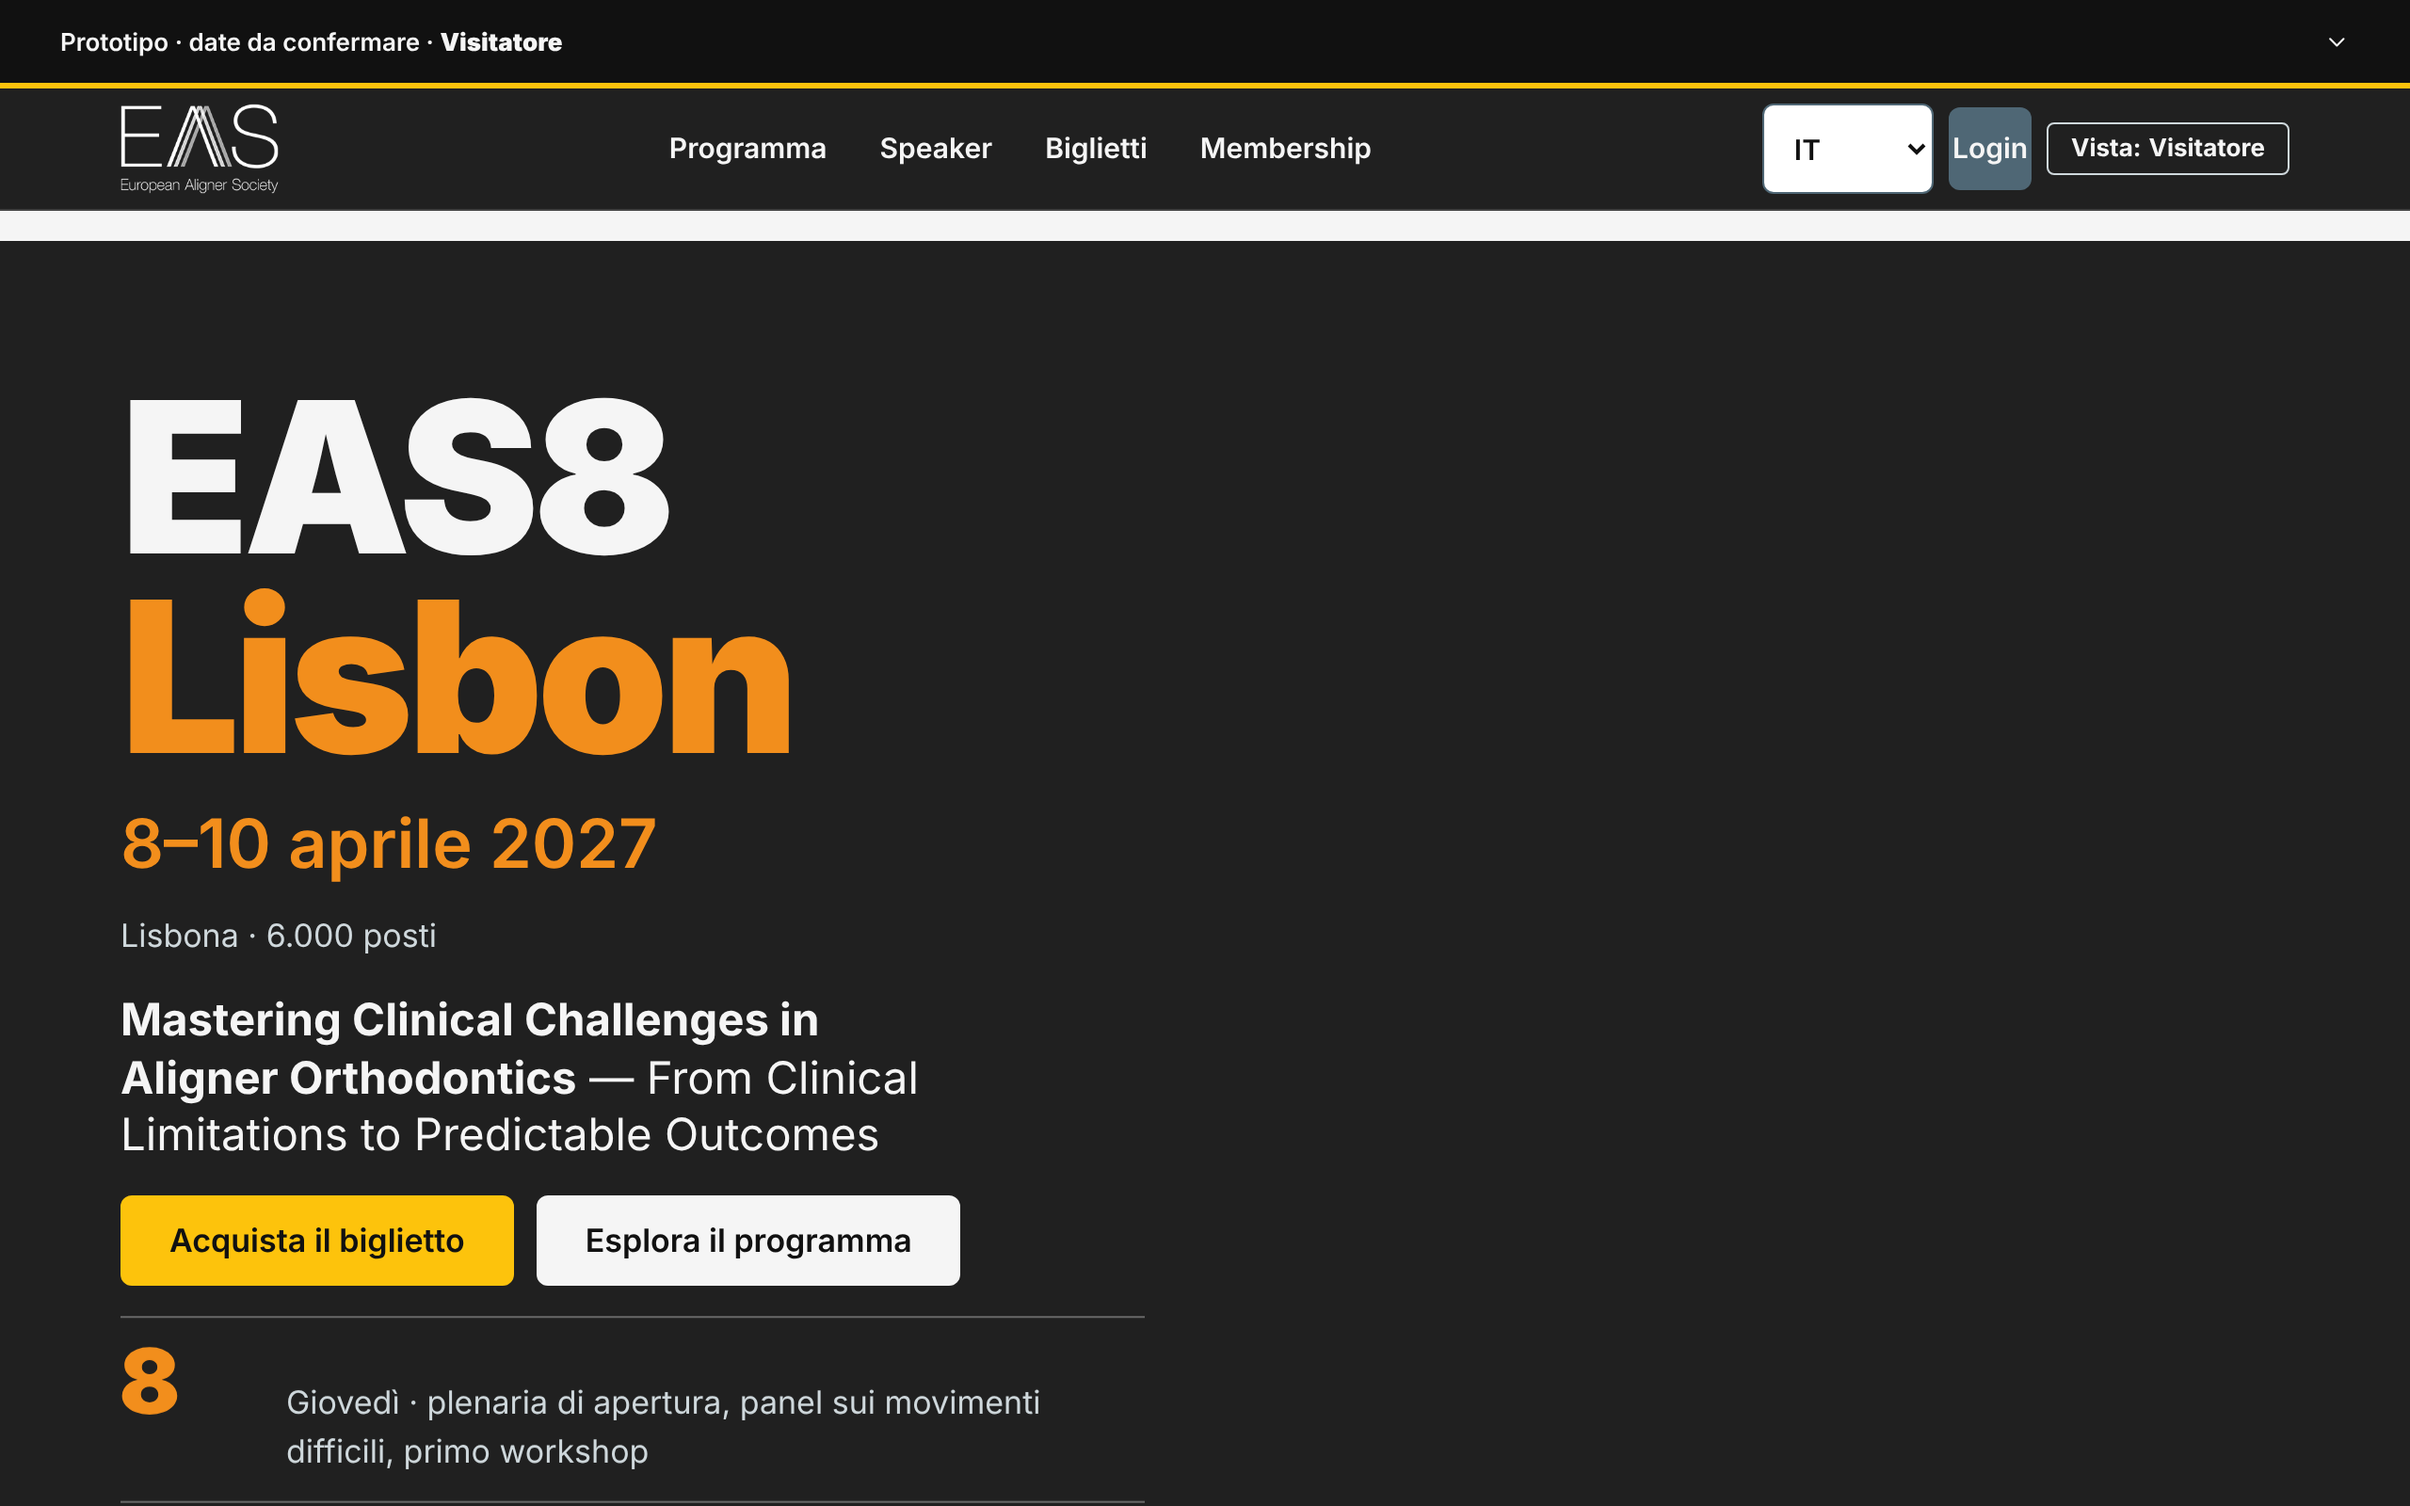
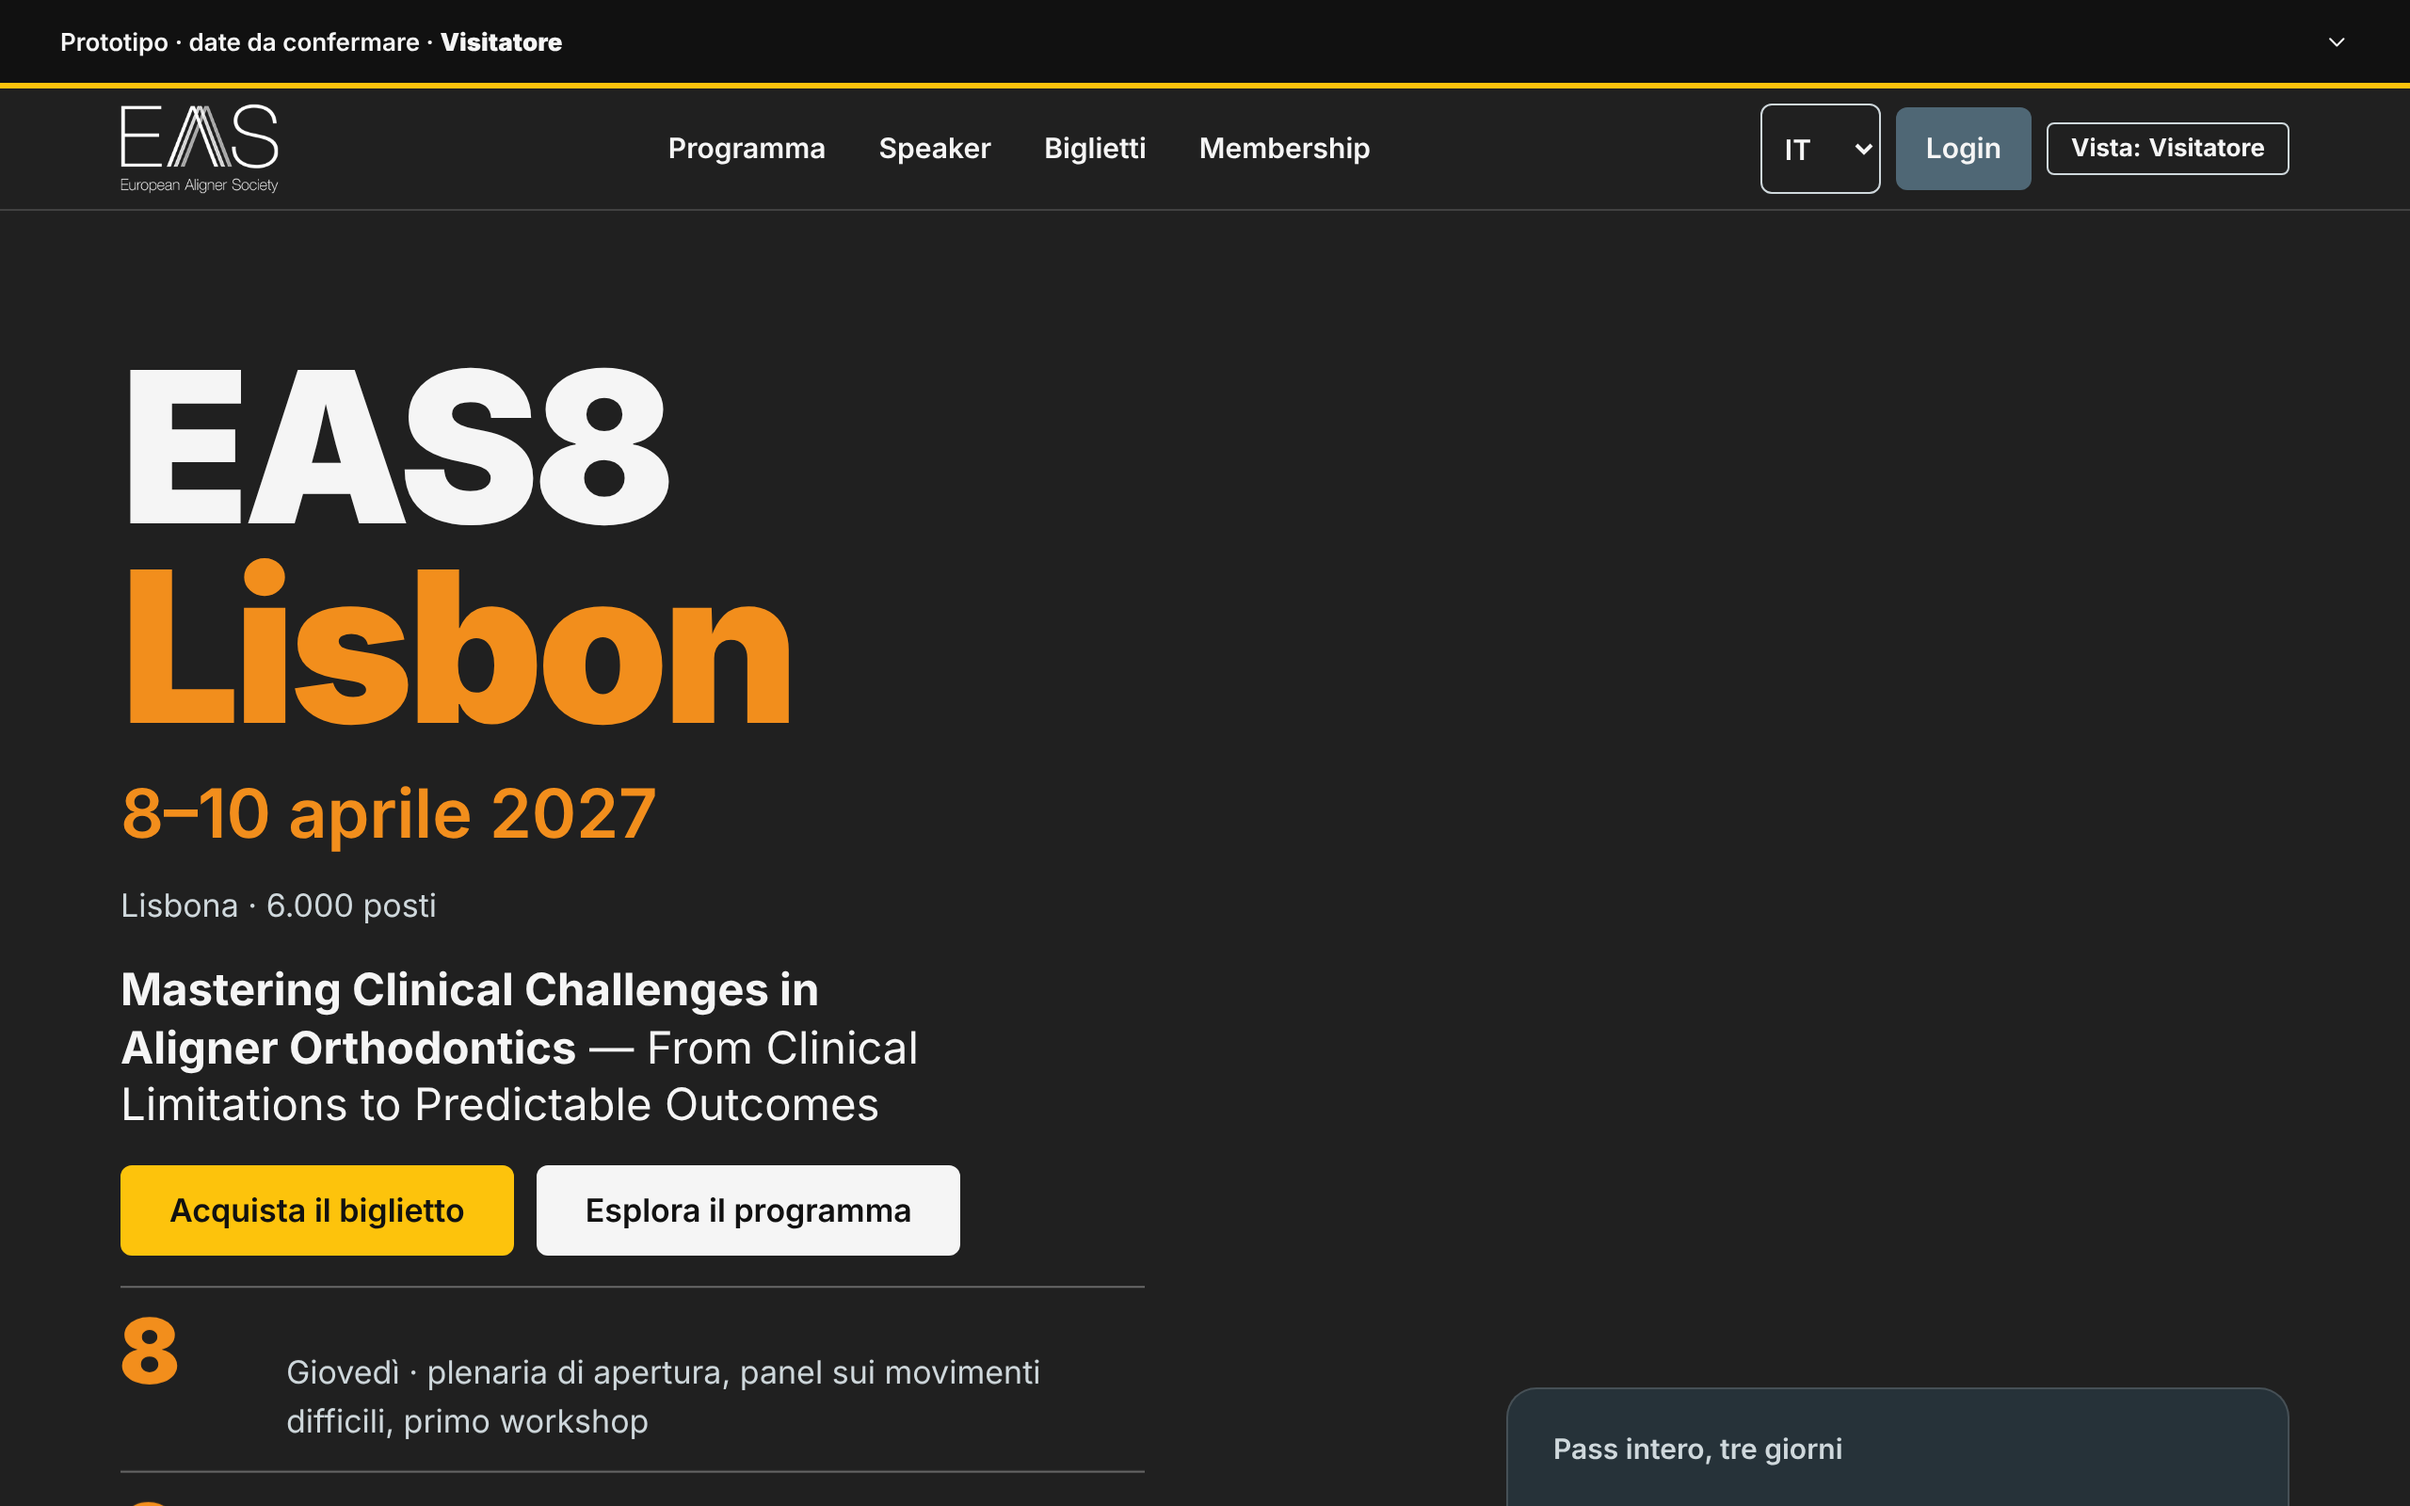
Architettura su Laravel + Filament con modello dati e migrazioni di esempio; prototipo EAS corretto dopo la revisione (fascia in home, didascalie, bersagli, barra di pagamento, selettore lingua, ordine di tabulazione)

diff --git a/prototipo/styles.css b/prototipo/styles.css
@@ -260,7 +260,7 @@ details.proto-bar > summary .ic { margin-left: auto; width: 1.1em; height: 1.1em
 details.proto-bar[open] > summary .ic { transform: rotate(180deg); }
 .proto-bar__corpo { padding: var(--s-2) var(--gutter) var(--s-3); display: grid; gap: var(--s-2); }
 .proto-bar__nav { display: flex; flex-wrap: wrap; gap: var(--s-1) var(--s-4); }
-.proto-bar__nav a { color: #f5f5f5; display: inline-flex; align-items: center; min-height: 2.75rem; }
+.proto-bar__nav a { color: #f5f5f5; display: inline-flex; align-items: center; justify-content: center; min-height: 2.75rem; min-width: 2.75rem; }
 
 /* ---------- Intestazione e navigazione (scure) ---------- */
 .site-header { background: var(--nav-bg); color: var(--nav-ink); border-bottom: 1px solid var(--nav-line); }
@@ -288,6 +288,9 @@ details.proto-bar[open] > summary .ic { transform: rotate(180deg); }
   background: var(--nav-bg); color: var(--nav-ink); border: 1px solid var(--nav-ink-2); color-scheme: dark; cursor: pointer;
 }
 .lang-avviso { margin-top: var(--s-4); }
+.lang-avviso:empty { display: none; }   /* vuoto: niente fascia chiara tra intestazione e hero */
+.site-header .select--lang { width: 4rem; min-width: 4rem; flex: none; padding: 0 var(--s-2); background: var(--nav-bg); color: var(--nav-ink); border: 1px solid var(--nav-ink-2); }
+.site-header .header-link { flex: none; padding-inline: var(--s-4); }
 
 .nav-main {
   position: fixed; inset: auto 0 0 0; z-index: 40;
@@ -557,7 +560,10 @@ details.proto-bar[open] > summary .ic { transform: rotate(180deg); }
 .hero__giorni b { font: 900 3rem / 0.9 var(--font-display); letter-spacing: -0.04em; font-variant-numeric: tabular-nums; color: var(--c-orange); }
 .hero__giorni span { color: var(--hero-ink-2); }
 @keyframes entra { from { transform: translateY(14px); } to { transform: none; } }
-.hero__prezzi { max-width: 26rem; color: var(--hero-ink); }
+.hero__prezzi { max-width: 26rem; color: var(--hero-ink); background: var(--c-social); border: 1px solid var(--nav-line); border-radius: var(--r-l); padding: var(--s-5); }
+.hero__corpo > * { min-width: 0; }
+/* link nel testo: area cliccabile >= 44px senza cambiare l'impaginazione */
+.sezione p a:not(.btn), .admin-main p a:not(.btn) { display: inline-block; padding-block: 0.75rem; margin-block: -0.75rem; }
 .hero__prezzi .prezzo-riga { border-color: rgb(245 245 245 / 0.4); }
 .hero__prezzi .prezzo-nota, .hero__prezzi .prezzo-altri, .hero__prezzi .prezzo-barrato, .hero__prezzi .t-muted, .hero__prezzi .t-small { color: var(--hero-ink-2); }
 .hero .badge--ruolo { background: #f5f5f5; color: #111111; border-color: #f5f5f5; }
@@ -595,6 +601,7 @@ details.proto-bar[open] > summary .ic { transform: rotate(180deg); }
 .tabella tfoot td, .tabella tfoot th { border-top: 3px solid var(--c-ink); font-weight: 700; }
 .tabella a { display: inline-flex; align-items: center; min-height: 2.75rem; }
 @media (max-width: 39.99rem) {
+  .tabella--stack caption:not(.sr-only) { display: block; width: 100%; }
   .tabella--stack thead { position: absolute; width: 1px; height: 1px; overflow: hidden; clip-path: inset(50%); }
   .tabella--stack, .tabella--stack tbody, .tabella--stack tr, .tabella--stack th, .tabella--stack td, .tabella--stack tfoot { display: block; }
   .tabella--stack tr { border-top: 3px solid var(--c-ink); padding: var(--s-2) 0; }
@@ -620,9 +627,10 @@ details.proto-bar[open] > summary .ic { transform: rotate(180deg); }
 .input[disabled], .select[disabled] { background: var(--c-surface-2); color: var(--c-ink-2); border-style: dashed; }
 .campo--errore .input, .campo--errore .select { border: 2px solid var(--c-err-fg); }
 fieldset.campo { border: 0; padding: 0; margin: 0; min-width: 0; }
-.scelta { display: flex; align-items: center; gap: var(--s-3); min-height: 3rem; cursor: pointer; }
-.scelta input { width: 1.5rem; height: 1.5rem; flex: none; margin: 0; }
-.scelta--inline { display: inline-flex; }
+/* l'intera riga della label e' l'area cliccabile (>= 44px di altezza e tutta la larghezza); la casella resta visibile a 28px */
+.scelta { display: flex; align-items: center; gap: var(--s-3); min-height: 2.75rem; padding-block: var(--s-1); cursor: pointer; }
+.scelta input { width: 1.75rem; height: 1.75rem; flex: none; margin: 0; }
+.scelta--inline { display: inline-flex; min-width: 2.75rem; padding-inline: var(--s-1); }
 .opzione { display: grid; grid-template-columns: 1.5rem minmax(0, 1fr); gap: var(--s-3); padding: var(--s-4); background: var(--c-surface); border: 1px solid var(--c-line-strong); border-radius: var(--r-m); cursor: pointer; }
 .opzione input { width: 1.5rem; height: 1.5rem; margin: 0.1rem 0 0; }
 .opzione:has(input:checked) { border: 2px solid var(--c-accent-text); padding: calc(var(--s-4) - 1px); background: var(--c-accent-soft); }
@@ -665,6 +673,9 @@ fieldset.campo { border: 0; padding: 0; margin: 0; min-width: 0; }
   position: sticky; bottom: var(--nav-h); z-index: 20; background: var(--c-surface); border-top: 1px solid var(--c-ink);
   box-shadow: var(--shadow); padding: var(--s-3) var(--gutter) var(--s-3); display: flex; align-items: center; justify-content: space-between; gap: var(--s-4);
 }
+/* biglietti su telefono: barra fissa sopra la barra in basso (visibile solo con almeno un articolo), area sicura inclusa */
+.barra-azione--mobile { position: fixed; left: 0; right: 0; bottom: calc(var(--nav-h) + env(safe-area-inset-bottom)); z-index: 30; }
+.sezione:has(.barra-azione--mobile) { padding-bottom: calc(var(--s-7) + 5rem); }
 .barra-azione__totale { line-height: 1.1; }
 .barra-azione__totale small { display: block; font-size: var(--fs-xs); color: var(--c-ink-2); }
 .barra-azione__totale b { font: 700 1.5rem / 1.1 var(--font-display); font-variant-numeric: tabular-nums; }

diff --git a/prototipo/prototipo.js b/prototipo/prototipo.js
@@ -470,5 +470,15 @@
     sessioneRiga: sessioneRiga, speakerCard: speakerCard, qrSvg: qrSvg, msg: msg, BASE: BASE, BREVE: BREVE
   };
 
-  ready(function () { barra(); lingua(); piede(); applica(); });
+  // La barra in basso (telefono) sta DOPO <main> nel DOM, cosi' l'ordine di tabulazione e' intestazione, contenuto, barra.
+  // Da 64rem torna nell'intestazione, prima dei controlli di destra. Resta fissa in basso solo con CSS.
+  function navPosizione() {
+    var nav = qs('.nav-main'), dx = qs('.site-header__destra'), main = qs('main');
+    if (!nav || !dx || !main) return;
+    var mq = w.matchMedia('(min-width: 64rem)');
+    function p() { if (mq.matches) dx.parentNode.insertBefore(nav, dx); else main.insertAdjacentElement('afterend', nav); }
+    p(); if (mq.addEventListener) mq.addEventListener('change', p);
+  }
+
+  ready(function () { barra(); lingua(); piede(); navPosizione(); applica(); });
 }(window, document));

diff --git a/prototipo/biglietti.html b/prototipo/biglietti.html
@@ -160,7 +160,7 @@
     </div>
     <div class="barra-azione barra-azione--mobile" role="region" aria-label="Totale e pagamento">
       <div class="barra-azione__totale"><small>Totale</small><b id="totale-barra">0 €</b></div>
-      <button type="submit" form="ordine" class="btn btn--primary">Paga</button>
+      <button type="submit" form="ordine" class="btn btn--primary">Vai al pagamento</button>
     </div>
   </section>
 
@@ -296,6 +296,7 @@
       $('#righe').innerHTML = h;
       $('#totale').textContent = CV.euro(c.totale);
       $('#totale-barra').textContent = CV.euro(c.totale);
+      $('.barra-azione--mobile').hidden = !c.righe.length;   // la barra fissa compare solo con almeno un articolo
 
       /* la membership conviene? Solo per chi non e' gia' membro */
       var r = CV.stato.ruolo, nota = '';

diff --git a/README.md b/README.md
@@ -10,9 +10,11 @@ Fase attuale: **architettura e UX/UI**. Il codice dell'applicazione non c'è anc
 | File | Cosa contiene |
 |---|---|
 | [`docs/brief.md`](docs/brief.md) | richiesta e decisioni di Giulio |
-| [`docs/architettura.md`](docs/architettura.md) | stack, componenti, Stripe, ruoli di prezzo, capienza, sicurezza, costi, MVP, domande aperte |
+| [`docs/architettura.md`](docs/architettura.md) | stack Laravel + Filament, componenti, Stripe, ruoli, capienza, hosting, sicurezza, costi, MVP, domande aperte |
 | [`docs/decisioni.md`](docs/decisioni.md) | registro delle decisioni |
-| [`db/schema.sql`](db/schema.sql) | bozza dello schema Postgres 16 (Supabase) |
+| [`db/modello-dati.md`](db/modello-dati.md) | modello dei dati per Laravel: tabelle, vincoli, indici, dove sta ogni regola |
+| [`db/migrazioni-bozza/`](db/migrazioni-bozza/) | migrazioni Laravel di esempio per ordini, capienza, prezzo membro, eventi Stripe |
+| [`db/archivio/`](db/archivio/) | schema Postgres per Supabase del 05/11/2026, solo come riferimento storico |
 | [`docs/ux/architettura-informazioni.md`](docs/ux/architettura-informazioni.md) | mappa del sito, flussi, casi limite, accessibilità |
 | [`prototipo/`](prototipo/index.html) | prototipo cliccabile in HTML statico: sito pubblico, area personale, admin, check-in |
 

diff --git a/docs/ux/architettura-informazioni.md b/docs/ux/architettura-informazioni.md
@@ -253,7 +253,7 @@ Gli obiettivi sono ipotesi di lavoro, non misure.
 ## 10. Area personale, admin e check-in (seconda parte)
 
 File: `prototipo/accesso.html`, `account.html`, `admin/*.html`, `checkin.html`. Coerente con `docs/architettura.md`
-(ruoli derivati dai dati, ordini, check-in con QR firmato). Nota: `docs/architettura.md` e `db/schema.sql` descrivono ancora il ruolo studente e vanno allineati alla decisione del 05/11/2026 (nessuno studente).
+(ruoli derivati dai dati, ordini, check-in con QR firmato). Il modello dei dati è in `db/modello-dati.md` (Laravel + Filament dal 06/11/2026).
 
 ### 10.1 Accesso
 
